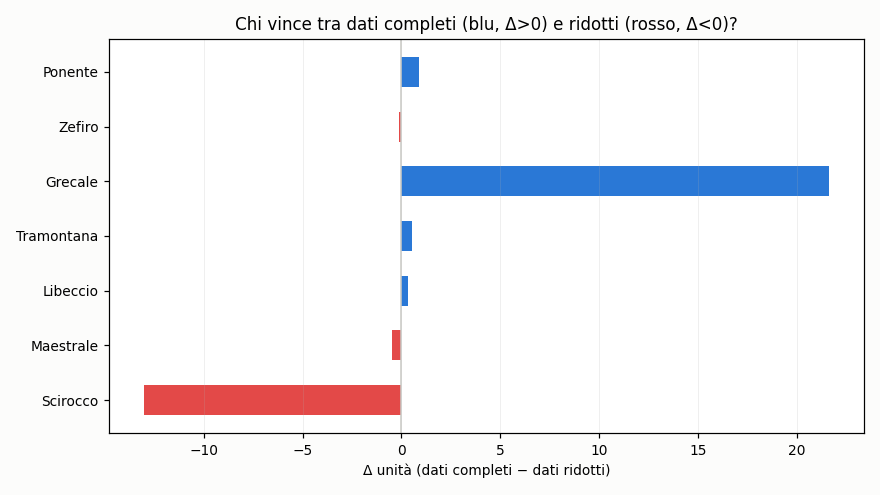
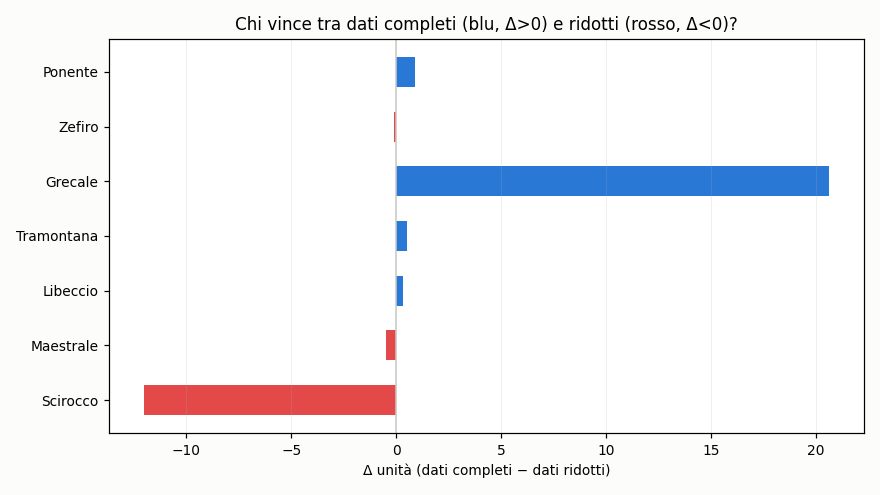
aggiornamento 2026-07-27 17:16 UTC

diff --git a/README.md b/README.md
@@ -37,9 +37,9 @@ scala in unità). Non indichiamo quale.
 
 ## Grafici
 
-![Coppie: dati completi vs ridotti](https://raw.githubusercontent.com/Kitem19/ippica-track-record/main/charts/equity_pairs.png?v=a12c0575)
+![Coppie: dati completi vs ridotti](https://raw.githubusercontent.com/Kitem19/ippica-track-record/main/charts/equity_pairs.png?v=c8f870b1)
 
-![Delta per coppia](https://raw.githubusercontent.com/Kitem19/ippica-track-record/main/charts/coppie_delta.png?v=ac2e9e3d)
+![Delta per coppia](https://raw.githubusercontent.com/Kitem19/ippica-track-record/main/charts/coppie_delta.png?v=38af909a)
 
 ### Come leggere i grafici
 
@@ -56,11 +56,11 @@ scala in unità). Non indichiamo quale.
 
 _Poche giornate: numeri ancora rumorosi, si conclude a fine fase (31/7)._
 
-- **Scirocco**: dati ridotti avanti di 13,0u — qui gli extra non aiutano
+- **Scirocco**: dati ridotti avanti di 12,0u — qui gli extra non aiutano
 - **Maestrale**: in sostanziale pareggio — troppo presto per dire
 - **Libeccio**: in sostanziale pareggio — troppo presto per dire
 - **Tramontana**: in sostanziale pareggio — troppo presto per dire
-- **Grecale**: dati completi avanti di 21,6u
+- **Grecale**: dati completi avanti di 20,6u
 - **Zefiro**: in sostanziale pareggio — troppo presto per dire
 - **Ponente**: in sostanziale pareggio — troppo presto per dire
 
@@ -68,22 +68,22 @@ _Poche giornate: numeri ancora rumorosi, si conclude a fine fase (31/7)._
 
 | Sistema | Cassa (u) | P/L (u) | Selezioni | Escluse | Stato |
 |---|---|---|---|---|---|
-| Grecale | 21,4 | +1,4 | 318 | 4 | 🟢 |
-| Scirocco-B | 13,0 | -7,0 | 248 | 0 | 🟢 |
-| Maestrale-B | 0,0 | -20,0 | 100 | 250 | 🛑 |
+| Grecale | 20,4 | +0,4 | 319 | 4 | 🟢 |
+| Scirocco-B | 12,0 | -8,0 | 249 | 0 | 🟢 |
+| Maestrale-B | 0,0 | -20,0 | 100 | 251 | 🛑 |
 | Ponente | 0,0 | -20,0 | 213 | 36 | 🛑 |
 | Scirocco | 0,0 | -20,1 | 80 | 275 | 🛑 |
 | Grecale-B | 0,0 | -20,2 | 137 | 183 | 🛑 |
 | Tramontana | 0,0 | -20,3 | 45 | 316 | 🛑 |
 | Zefiro-B | 0,0 | -20,5 | 143 | 79 | 🛑 |
-| Maestrale | 0,0 | -20,5 | 104 | 269 | 🛑 |
+| Maestrale | 0,0 | -20,5 | 104 | 270 | 🛑 |
 | Zefiro | 0,0 | -20,6 | 268 | 12 | 🛑 |
-| Libeccio | 0,0 | -20,6 | 181 | 176 | 🛑 |
+| Libeccio | 0,0 | -20,6 | 181 | 177 | 🛑 |
 | Tramontana-B | 0,0 | -20,8 | 324 | 26 | 🛑 |
-| Libeccio-B | 0,0 | -20,9 | 119 | 191 | 🛑 |
-| Ponente-B | 0,0 | -21,0 | 63 | 95 | 🛑 |
+| Libeccio-B | 0,0 | -20,9 | 119 | 192 | 🛑 |
+| Ponente-B | 0,0 | -21,0 | 63 | 96 | 🛑 |
 
-_Aggiornato: 27/07 19:11_
+_Aggiornato: 27/07 19:16_
 ---
 *Nessuna delle informazioni qui pubblicate costituisce consiglio di gioco.
 Il gioco può causare dipendenza — 18+.*
